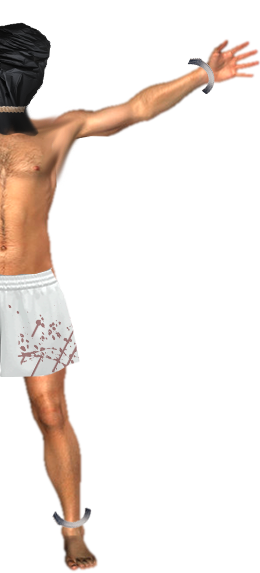
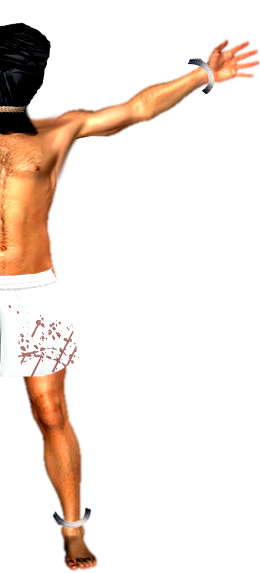
Avances Animaciones, Mediaqueries

Changed region(s): [[0.0, 0.0297, 0.9846, 1.0]]

diff --git a/src/index.css b/src/index.css
@@ -12,12 +12,13 @@ body{
    width:100%;
    height: 100%;
    text-align: center;
+   
 }
 #animacion-ruleta{
    display: flex;
    flex-direction: column;
    width:100%;
-   height: 800px;
+   height: 1000px;
    background-image: url(/src/img/Imagenes_sin_compresion/marde-imagenes/fondo_1.jpg);
    background-repeat: no-repeat;
    background-size: cover;
@@ -27,7 +28,7 @@ body{
 
 }
 .hacha{
-   width: 40%;
+   width: 50%;
    position: absolute;
    top: 80%;
    left: 40%;
@@ -55,13 +56,18 @@ body{
    left: 50%;
    padding-top: 8%;
    display: none;
-
 }
 .cuerpo-ruleta2{
    width:38% ;
    left: 12%;
    padding-top: 10%;
    display: none;
+}
+.sangre-ruleta{
+   width:80% ;
+   left: 10%;
+   display: none;
+   position: absolute;
 }
 #play-ruleta{
    width: 20%;
@@ -70,3 +76,206 @@ body{
    top: 80%;
    left: 5%;
 }
+@media (max-width: 700px){
+   .container-marde{
+      width:100%;
+      height: 100%;
+      text-align: center;
+      
+   }
+   #animacion-ruleta{
+      display: flex;
+      flex-direction: column;
+      height: 800px;
+      
+   
+   }
+   .hacha{
+      width: 50%;
+      position: absolute;
+      top: 60%;
+      left: 55%;
+   
+   }
+   .ruleta{
+      width: 70%;
+      top: 18%;
+      left: 15%;
+   }
+   .container-cuerpo{
+      top: 18%;
+   }
+   .cuerpo-ruleta{
+      left: 15%;
+      width: 70%;
+   }
+   .cuerpo-ruleta1{
+      width:30% ;
+      left: 50%;
+      padding-top: 8%;
+      display: none;
+   }
+   .cuerpo-ruleta2{
+      width:30% ;
+      left: 18%;
+      padding-top: 10%;
+      display: none;
+   }
+   .sangre-ruleta{
+      width:70% ;
+      left: 10%;
+      display: none;
+      position: absolute;
+   }
+   #play-ruleta{
+      width: 20%;
+      padding: 20px;
+      position: absolute;
+      top: 80%;
+      left: 5%;
+}}
+@media (max-width: 1540px){
+   #animacion-ruleta{
+      display: flex;
+      flex-direction: column;
+      height: 00px;
+      
+   
+   }
+   .hacha{
+      width: 38%;
+      position: absolute;
+      top: 60%;
+      left: 49%;
+   
+   }
+   .ruleta{
+      width: 38%;
+      top: 12%;
+      left: 30%;
+   }
+   .container-cuerpo{
+      top: 10%;
+   }
+   .cuerpo-ruleta{
+      left: 30%;
+      width: 38%;
+   }
+   .cuerpo-ruleta1{
+      width:17% ;
+      left: 50%;
+      padding-top: 8%;
+      display: none;
+   }
+   .cuerpo-ruleta2{
+      width:17% ;
+      left: 31%;
+      padding-top: 9%;
+      display: none;
+   }
+   .sangre-ruleta{
+      width:40% ;
+      left: 27%;
+      display: none;
+      position: absolute;
+   }
+   #play-ruleta{
+      width: 20%;
+      padding: 20px;
+      position: absolute;
+      top: 80%;
+      left: 5%;
+}
+}
+@media (min-width: 750px){
+   #animacion-ruleta{
+      display: flex;
+      flex-direction: column;
+      height: 1000px;
+      
+   
+   }
+   .hacha{
+      width: 45%;
+      position: absolute;
+      top: 60%;
+      left: 50%;
+   
+   }
+   .ruleta{
+      width: 70%;
+      top: 12%;
+      left: 15%;
+   }
+   .container-cuerpo{
+      top: 12%;
+   }
+   .cuerpo-ruleta{
+      left: 15%;
+      width: 70%;
+   }
+   .cuerpo-ruleta1{
+      width:31% ;
+      left: 50%;
+      padding-top: 8%;
+      display: none;
+   }
+   .cuerpo-ruleta2{
+      width:31% ;
+      left: 18%;
+      padding-top: 9%;
+      display: none;
+   }
+   .sangre-ruleta{
+      width:55% ;
+      left: 20%;
+      display: none;
+      position: absolute;
+   }
+   #play-ruleta{
+      width: 20%;
+      padding: 20px;
+      position: absolute;
+      top: 80%;
+      left: 5%;
+}
+}
+
+@media (min-width: 350px){
+   #animacion-ruleta{
+      height: 600px;
+   }
+   .hacha{
+      width: 60%;
+      top: 60%;
+      left: 50%;
+   
+   }
+   .ruleta{
+      width: 90%;
+      top: 10%;
+      left: 5%;
+   }
+   
+   .cuerpo-ruleta{
+      left: 9%;
+      width: 80%;
+   }
+   .cuerpo-ruleta1{
+      width:35% ;
+      left: 50%;
+   }
+   .cuerpo-ruleta2{
+      width:35% ;
+      left: 13%;
+   }
+   .sangre-ruleta{
+      width:50% ;
+   }
+   #play-ruleta{
+      width: 20%;
+      padding: 20px;
+      position: absolute;
+      top: 80%;
+      left: 5%;
+}}

diff --git a/src/index.js b/src/index.js
@@ -15,49 +15,57 @@ $playRuleta.addEventListener('click', (e) => {
 
 function playRuleta(){
    tl.to('.ruleta', {
-      duration: 1.5,
+      duration: 1,
       rotate : '360deg',
       x: 0,
-      repeat: 1,
+      repeat: 2,
    },'0')
 
 
    tl.to('.cuerpo-ruleta', {
-      duration: 1.5,
+      duration: 1,
       rotate : '360deg',
       x: 0,
       y: 0,
-      repeat: 1,
+      repeat: 2,
       display: 'none',
    },'-=3')
    
    
 
    tl.to('.hacha',{
-      duration : 1,
+      duration : 0.9,
       rotate : '700deg',
-      x: 0,
+      x: -180,
       y: -450,
       scale: 0.5,
-   },'-=0.8')
-   
+   },'-=0.7')
+
    tl.to('.cuerpo-ruleta2', {
-      duration: 1.5,
-      rotate : '-10deg',
+      duration: 0.4,
+      rotate : '-15deg',
       x: 0,
       y: 0,
       repeat: 0,
       display: 'block',
    },'-=0.1')
+   
    tl.to('.cuerpo-ruleta1', {
-      duration: 1.5,
-      rotate : '10deg',
+      duration: 0.4,
+      rotate : '15deg',
       x: 0,
       y: 0,
       repeat: 0,
       display: 'block',
-   },'-=1.6')
-
+   },'-=0.3')
+   tl.to('.sangre-ruleta', {
+      duration: 0.3,
+      rotate : '15deg',
+      x:6,
+      y: 0,
+      repeat: 0,
+      display: 'block',
+   },'-=0.3')
 };
 
 //Bryan

diff --git a/index.html b/index.html
@@ -18,12 +18,14 @@
                <img src="/src/img/Imagenes_sin_compresion/marde-imagenes/rueda-torturas.png" class="ruleta" alt="">
             </div>
             <div class="container-cuerpo">
+               <img src="/src/img/Imagenes_sin_compresion/marde-imagenes/sangre.png" class="sangre-ruleta" alt="">
                <img src="/src/img/Imagenes_sin_compresion/marde-imagenes/cuerpo (copia).png" class="cuerpo-ruleta"alt="">
                <img src="/src/img/Imagenes_sin_compresion/marde-imagenes/cuerpo1.png" class="cuerpo-ruleta2" alt="">
                <img src="/src/img/Imagenes_sin_compresion/marde-imagenes/cuerpo2.png" class="cuerpo-ruleta1" alt="">
+               
             </div>
             <div class="container-hacha">
-               <img src="/src/img/Imagenes_sin_compresion/marde-imagenes/hacha.png" class="hacha" alt="">
+               <img src="/src/img/Imagenes_sin_compresion/marde-imagenes/hacha1.png" class="hacha" alt="">
             </div>
             <button id="play-ruleta" value="false">Play</button>
          </div>
